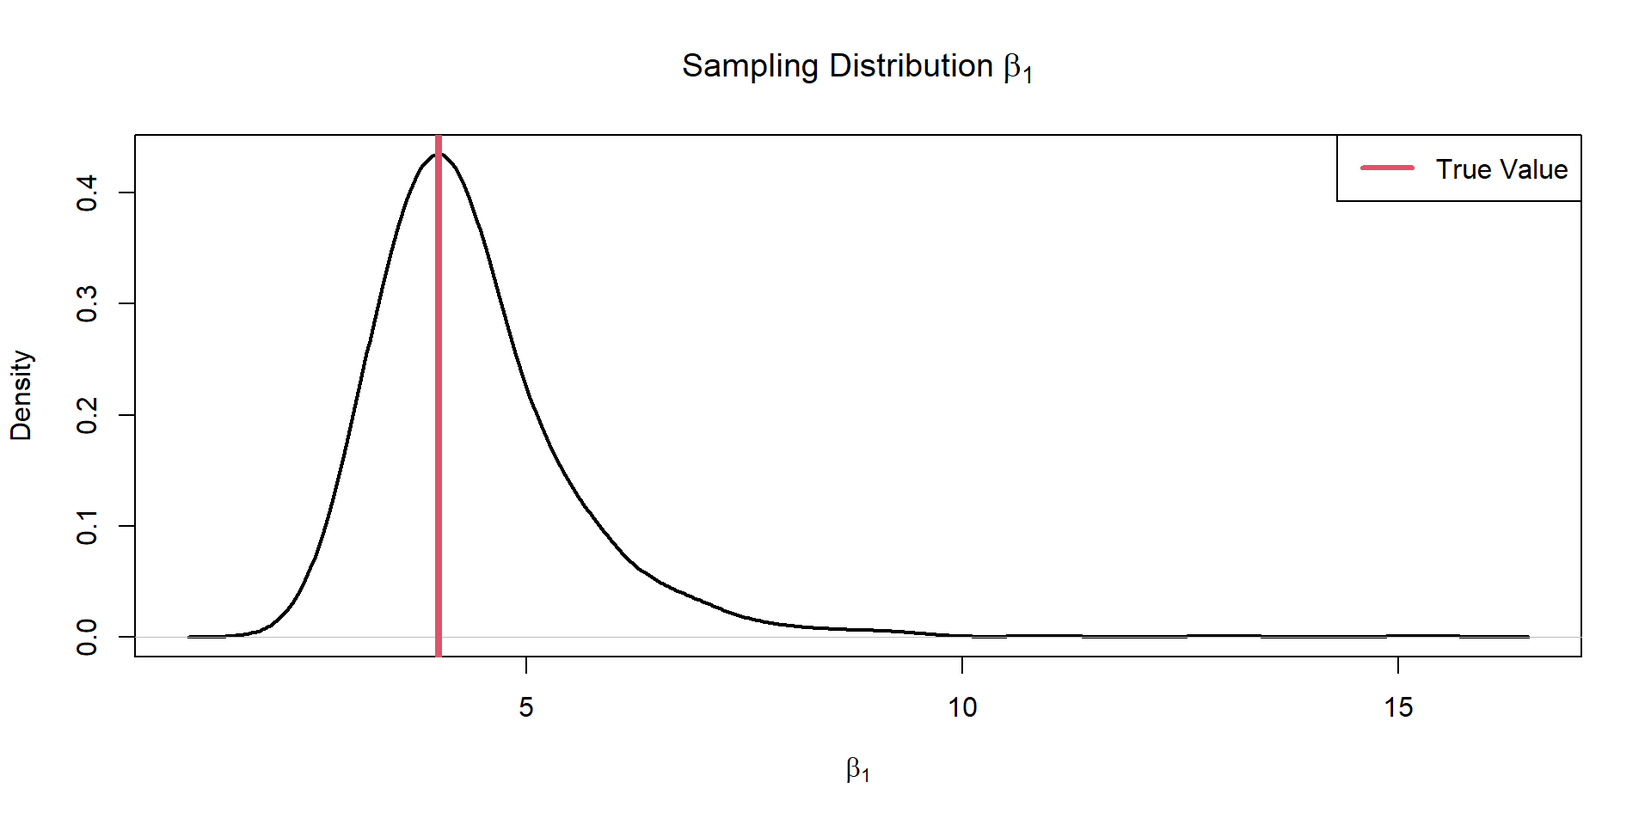
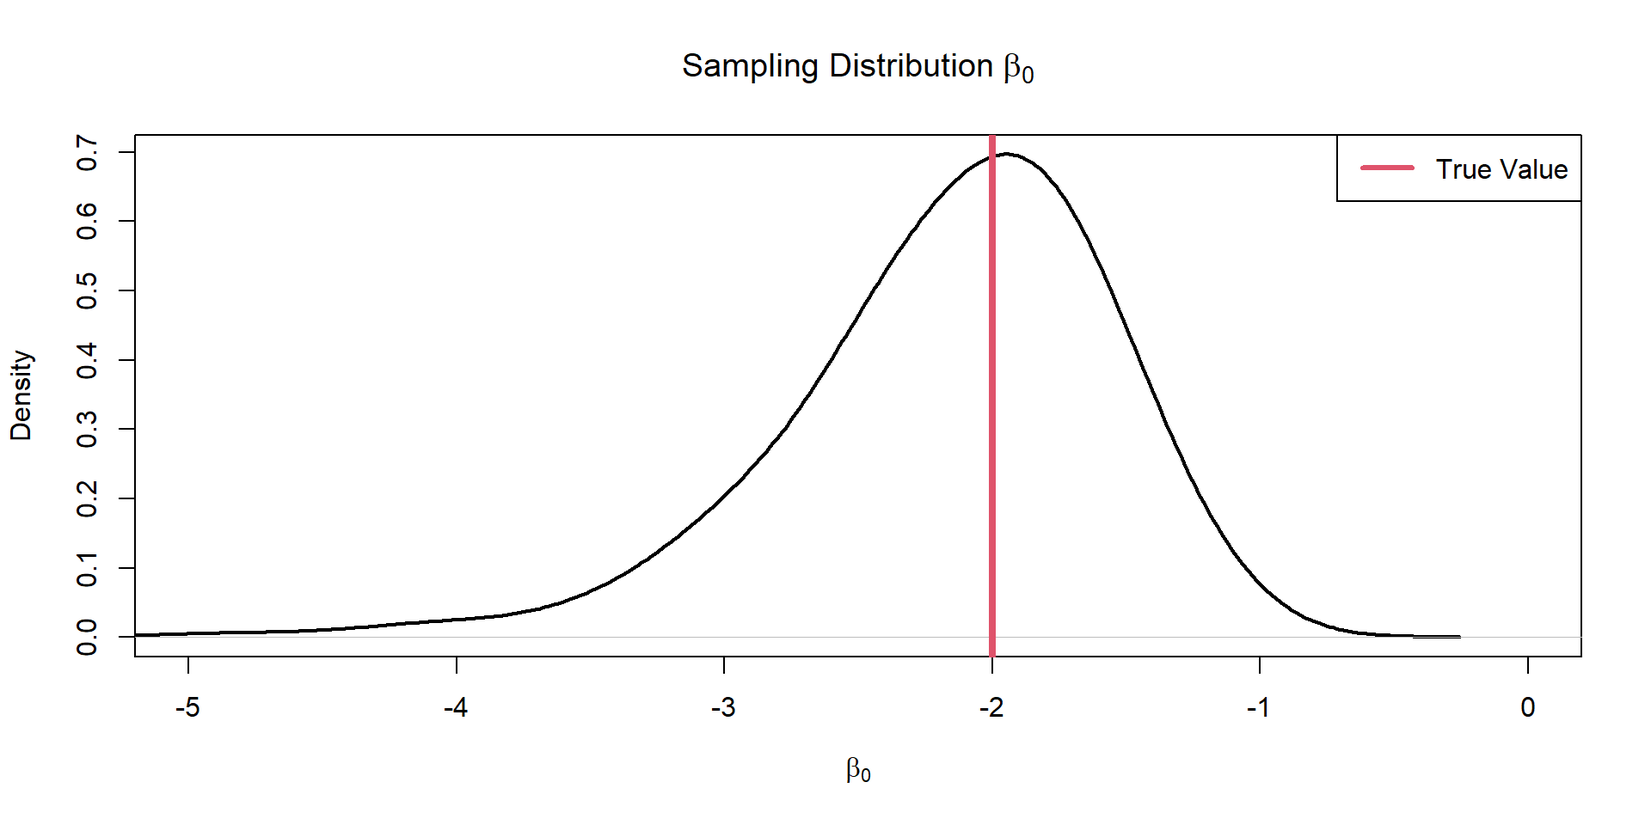
glm1

diff --git a/FW670/glm1-speaker.html b/FW670/glm1-speaker.html
@@ -7,8 +7,8 @@
 <script src="../site_libs/quarto-html/tippy.umd.min.js"></script>
 <link href="../site_libs/quarto-html/tippy.css" rel="stylesheet">
 <link href="../site_libs/quarto-html/light-border.css" rel="stylesheet">
-<link href="../site_libs/quarto-html/quarto-syntax-highlighting-7f8f88aac4f3542376d5c11b86a4c14d.css" rel="stylesheet" id="quarto-text-highlighting-styles"><meta charset="utf-8">
-  <meta name="generator" content="quarto-1.9.37">
+<link href="../site_libs/quarto-html/quarto-syntax-highlighting-15634bcf2e68342d4ad2dfa704d543f6.css" rel="stylesheet" id="quarto-text-highlighting-styles"><meta charset="utf-8">
+  <meta name="generator" content="quarto-1.9.38">
 
   <title>Brian D. Gerber – Generalized Linear Models</title>
   <meta name="apple-mobile-web-app-capable" content="yes">
@@ -295,9 +295,9 @@ Generalized linear model framework
 \]</span></p>
 <h3 id="elements-1">Elements</h3>
 <ul>
-<li class="fragment"><p>inverse-link function (<span class="math inline">\(\text{g}^{-1}(\boldsymbol{\textbf{X}\boldsymbol{\beta}})\)</span>); deterministic transformation of linear combination back to parameter scale</p></li>
-<li class="fragment"><p>design matrix of the known explanatory variables (<span class="math inline">\(\textbf{X}\)</span>)</p></li>
-<li class="fragment"><p>coefficient parameters (<span class="math inline">\(\boldsymbol{\beta}\)</span>); needs estimating</p></li>
+<li class="fragment">inverse-link function (<span class="math inline">\(\text{g}^{-1}(\boldsymbol{\textbf{X}\boldsymbol{\beta}})\)</span>); deterministic transformation of linear combination back to parameter scale</li>
+<li class="fragment">design matrix of the known explanatory variables (<span class="math inline">\(\textbf{X}\)</span>)</li>
+<li class="fragment">coefficient parameters (<span class="math inline">\(\boldsymbol{\beta}\)</span>); needs estimating</li>
 </ul>
 </section>
 <section id="linear-regression" class="slide level2 scrollable">
@@ -486,7 +486,7 @@ n &amp; x_{n,2} &amp; x_{n,3}
 <p>When can we do matrix multiplication?</p>
 <div class="fragment">
 <div class="cell">
-<div class="code-copy-outer-scaffold"><div class="sourceCode cell-code" id="cb3"><pre class="sourceCode numberSource r number-lines code-with-copy"><code class="sourceCode r"><span id="cb3-1"><a></a>first<span class="ot">=</span><span class="fu">t</span>(y)</span>
+<div class="code-copy-outer-scaffold"><div class="sourceCode cell-code" id="cb3"><pre class="sourceCode numberSource r number-lines code-with-copy"><code class="sourceCode r"><span id="cb3-1"><a></a>first <span class="ot">=</span> <span class="fu">t</span>(y)</span>
 <span id="cb3-2"><a></a><span class="fu">dim</span>(first)</span></code></pre></div><button title="Copy to Clipboard" class="code-copy-button"><i class="bi"></i></button></div>
 <div class="cell-output cell-output-stdout">
 <pre><code>[1] 1 3</code></pre>
@@ -495,7 +495,7 @@ n &amp; x_{n,2} &amp; x_{n,3}
 </div>
 <div class="fragment">
 <div class="cell">
-<div class="code-copy-outer-scaffold"><div class="sourceCode cell-code" id="cb5"><pre class="sourceCode numberSource r number-lines code-with-copy"><code class="sourceCode r"><span id="cb5-1"><a></a>second<span class="ot">=</span>y</span>
+<div class="code-copy-outer-scaffold"><div class="sourceCode cell-code" id="cb5"><pre class="sourceCode numberSource r number-lines code-with-copy"><code class="sourceCode r"><span id="cb5-1"><a></a>second <span class="ot">=</span> y</span>
 <span id="cb5-2"><a></a><span class="fu">dim</span>(second)</span></code></pre></div><button title="Copy to Clipboard" class="code-copy-button"><i class="bi"></i></button></div>
 <div class="cell-output cell-output-stdout">
 <pre><code>[1] 3 1</code></pre>
@@ -956,15 +956,15 @@ td {
 <section id="logistic-regression-simulation-1" class="slide level2 scrollable">
 <h2>Logistic Regression Simulation</h2>
 <div class="cell" data-layout-align="center">
-<div class="code-copy-outer-scaffold"><div class="sourceCode cell-code" id="cb26"><pre class="sourceCode numberSource r number-lines code-with-copy"><code class="sourceCode r"><span id="cb26-1"><a></a><span class="co"># marginal coefficients (on logit-scale)</span></span>
+<div class="code-copy-outer-scaffold"><div class="sourceCode cell-code" id="cb26"><pre class="sourceCode numberSource r number-lines code-with-copy"><code class="sourceCode r"><span id="cb26-1"><a></a><span class="co"># Marginal coefficients (on logit-scale)</span></span>
 <span id="cb26-2"><a></a>  beta <span class="ot">=</span> <span class="fu">c</span>(<span class="sc">-</span><span class="dv">2</span>,<span class="dv">4</span>)</span>
 <span id="cb26-3"><a></a></span>
-<span id="cb26-4"><a></a><span class="co">#linear terms</span></span>
+<span id="cb26-4"><a></a><span class="co"># Linear terms</span></span>
 <span id="cb26-5"><a></a>  lt <span class="ot">=</span> X<span class="sc">%*%</span>beta</span></code></pre></div><button title="Copy to Clipboard" class="code-copy-button"><i class="bi"></i></button></div>
 </div>
 <div class="fragment">
 <div class="cell" data-layout-align="center">
-<div class="code-copy-outer-scaffold"><div class="sourceCode cell-code" id="cb27"><pre class="sourceCode numberSource r number-lines code-with-copy"><code class="sourceCode r"><span id="cb27-1"><a></a><span class="co"># transformation via link function to probability scale</span></span>
+<div class="code-copy-outer-scaffold"><div class="sourceCode cell-code" id="cb27"><pre class="sourceCode numberSource r number-lines code-with-copy"><code class="sourceCode r"><span id="cb27-1"><a></a><span class="co"># Transformation via link function to probability scale</span></span>
 <span id="cb27-2"><a></a>  p <span class="ot">=</span> <span class="fu">plogis</span>(lt)</span>
 <span id="cb27-3"><a></a>  <span class="fu">head</span>(<span class="fu">round</span>(p,<span class="at">digits=</span><span class="dv">2</span>))</span></code></pre></div><button title="Copy to Clipboard" class="code-copy-button"><i class="bi"></i></button></div>
 <div class="cell-output cell-output-stdout">
@@ -980,7 +980,7 @@ td {
 </div>
 <div class="fragment">
 <div class="cell" data-layout-align="center">
-<div class="code-copy-outer-scaffold"><div class="sourceCode cell-code" id="cb29"><pre class="sourceCode numberSource r number-lines code-with-copy"><code class="sourceCode r"><span id="cb29-1"><a></a><span class="co"># generate a sample dataset</span></span>
+<div class="code-copy-outer-scaffold"><div class="sourceCode cell-code" id="cb29"><pre class="sourceCode numberSource r number-lines code-with-copy"><code class="sourceCode r"><span id="cb29-1"><a></a><span class="co"># Generate a sample dataset</span></span>
 <span id="cb29-2"><a></a>  <span class="fu">set.seed</span>(<span class="dv">14353</span>)</span>
 <span id="cb29-3"><a></a>  y <span class="ot">=</span> <span class="fu">rbinom</span>(<span class="at">n=</span><span class="fu">length</span>(p),<span class="at">size=</span><span class="dv">1</span>,p)</span>
 <span id="cb29-4"><a></a>  y</span></code></pre></div><button title="Copy to Clipboard" class="code-copy-button"><i class="bi"></i></button></div>
@@ -995,7 +995,7 @@ td {
 <section id="logistic-regression-simulation-2" class="slide level2 scrollable">
 <h2>Logistic Regression Simulation</h2>
 <div class="cell" data-layout-align="center">
-<div class="code-copy-outer-scaffold"><div class="sourceCode cell-code" id="cb31"><pre class="sourceCode numberSource r number-lines code-with-copy"><code class="sourceCode r"><span id="cb31-1"><a></a><span class="co">#Plot the linear 'terms'  and explantory variable</span></span>
+<div class="code-copy-outer-scaffold"><div class="sourceCode cell-code" id="cb31"><pre class="sourceCode numberSource r number-lines code-with-copy"><code class="sourceCode r"><span id="cb31-1"><a></a><span class="co"># Plot the linear 'terms'  and explantory variable</span></span>
 <span id="cb31-2"><a></a>  <span class="fu">par</span>(<span class="at">cex.lab=</span><span class="fl">1.2</span>,<span class="at">cex.axis=</span><span class="fl">1.2</span>)</span>
 <span id="cb31-3"><a></a>  <span class="fu">plot</span>(Var1,lt,<span class="at">type=</span><span class="st">"b"</span>,<span class="at">lwd=</span><span class="dv">3</span>,<span class="at">col=</span><span class="dv">2</span>,</span>
 <span id="cb31-4"><a></a>       <span class="at">xlab=</span><span class="st">"x"</span>,<span class="at">ylab=</span><span class="st">"Linear Terms (logit-value)"</span>)  </span></code></pre></div><button title="Copy to Clipboard" class="code-copy-button"><i class="bi"></i></button></div>
@@ -1050,20 +1050,23 @@ Number of Fisher Scoring iterations: 7</code></pre>
 <section id="logistic-regression-evaluation" class="slide level2 scrollable">
 <h2>Logistic Regression Evaluation</h2>
 <div class="cell">
-<div class="code-copy-outer-scaffold"><div class="sourceCode cell-code" id="cb35"><pre class="sourceCode numberSource r number-lines code-with-copy"><code class="sourceCode r"><span id="cb35-1"><a></a> <span class="co">#sample many times  </span></span>
-<span id="cb35-2"><a></a>  n.sim<span class="ot">=</span><span class="dv">1000</span></span>
+<div class="code-copy-outer-scaffold"><div class="sourceCode cell-code" id="cb35"><pre class="sourceCode numberSource r number-lines code-with-copy"><code class="sourceCode r"><span id="cb35-1"><a></a> <span class="co"># Sample many times  </span></span>
+<span id="cb35-2"><a></a>  n.sim <span class="ot">=</span> <span class="dv">1000</span></span>
 <span id="cb35-3"><a></a>  y.many <span class="ot">=</span> <span class="fu">replicate</span>(n.sim,</span>
 <span id="cb35-4"><a></a>                     <span class="fu">rbinom</span>(<span class="at">n =</span> <span class="fu">length</span>(p),</span>
-<span id="cb35-5"><a></a>                            <span class="at">size=</span><span class="dv">1</span>,</span>
+<span id="cb35-5"><a></a>                            <span class="at">size =</span> <span class="dv">1</span>,</span>
 <span id="cb35-6"><a></a>                            p)</span>
 <span id="cb35-7"><a></a>                     )</span>
 <span id="cb35-8"><a></a>  <span class="fu">dim</span>(y.many)</span></code></pre></div><button title="Copy to Clipboard" class="code-copy-button"><i class="bi"></i></button></div>
 <div class="cell-output cell-output-stdout">
 <pre><code>[1]  100 1000</code></pre>
 </div>
-<div class="code-copy-outer-scaffold"><div class="sourceCode cell-code" id="cb37"><pre class="sourceCode numberSource r number-lines code-with-copy"><code class="sourceCode r"><span id="cb37-1"><a></a> <span class="co">#Estimate coefs for all 100 samples</span></span>
-<span id="cb37-2"><a></a>  coef.est<span class="ot">=</span><span class="fu">apply</span>(y.many,<span class="dv">2</span>,<span class="at">FUN=</span><span class="cf">function</span>(y){</span>
-<span id="cb37-3"><a></a>          model1<span class="ot">=</span><span class="fu">glm</span>(y <span class="sc">~</span> <span class="dv">0</span> <span class="sc">+</span> X, </span>
+</div>
+<div class="fragment">
+<div class="cell">
+<div class="code-copy-outer-scaffold"><div class="sourceCode cell-code" id="cb37"><pre class="sourceCode numberSource r number-lines code-with-copy"><code class="sourceCode r"><span id="cb37-1"><a></a> <span class="co"># Estimate coefs for all 100 samples</span></span>
+<span id="cb37-2"><a></a>  coef.est <span class="ot">=</span> <span class="fu">apply</span>(y.many,<span class="dv">2</span>,<span class="at">FUN =</span> <span class="cf">function</span>(y){</span>
+<span id="cb37-3"><a></a>          model1 <span class="ot">=</span> <span class="fu">glm</span>(y <span class="sc">~</span> <span class="dv">0</span> <span class="sc">+</span> X, </span>
 <span id="cb37-4"><a></a>                     <span class="at">family =</span> <span class="fu">binomial</span>(<span class="at">link =</span> <span class="st">"logit"</span>)</span>
 <span id="cb37-5"><a></a>                     )</span>
 <span id="cb37-6"><a></a>          </span>
@@ -1076,15 +1079,16 @@ Number of Fisher Scoring iterations: 7</code></pre>
 </div>
 </div>
 <p><br></p>
+</div>
 </section>
 <section id="plot-intercept" class="slide level2">
 <h2>Plot Intercept</h2>
 
-<img data-src="glm1_files/figure-revealjs/unnamed-chunk-22-1.png" width="960" class="r-stretch"></section>
+<img data-src="glm1_files/figure-revealjs/unnamed-chunk-23-1.png" width="960" class="r-stretch"></section>
 <section id="plot-slope" class="slide level2">
 <h2>Plot Slope</h2>
 
-<img data-src="glm1_files/figure-revealjs/unnamed-chunk-23-1.png" width="960" class="r-stretch"></section>
+<img data-src="glm1_files/figure-revealjs/unnamed-chunk-24-1.png" width="960" class="r-stretch"></section>
 <section id="evaluate-sampling-distributions" class="slide level2">
 <h2>Evaluate Sampling Distributions</h2>
 <p>Is our model biased?</p>

diff --git a/docs/FW670/glm1.html b/docs/FW670/glm1.html
@@ -7,8 +7,8 @@
 <script src="../site_libs/quarto-html/tippy.umd.min.js"></script>
 <link href="../site_libs/quarto-html/tippy.css" rel="stylesheet">
 <link href="../site_libs/quarto-html/light-border.css" rel="stylesheet">
-<link href="../site_libs/quarto-html/quarto-syntax-highlighting-7f8f88aac4f3542376d5c11b86a4c14d.css" rel="stylesheet" id="quarto-text-highlighting-styles"><meta charset="utf-8">
-  <meta name="generator" content="quarto-1.9.37">
+<link href="../site_libs/quarto-html/quarto-syntax-highlighting-15634bcf2e68342d4ad2dfa704d543f6.css" rel="stylesheet" id="quarto-text-highlighting-styles"><meta charset="utf-8">
+  <meta name="generator" content="quarto-1.9.38">
 
   <title>Brian D. Gerber – Generalized Linear Models</title>
   <meta name="apple-mobile-web-app-capable" content="yes">
@@ -295,9 +295,9 @@ Generalized linear model framework
 \]</span></p>
 <h3 id="elements-1">Elements</h3>
 <ul>
-<li class="fragment"><p>inverse-link function (<span class="math inline">\(\text{g}^{-1}(\boldsymbol{\textbf{X}\boldsymbol{\beta}})\)</span>); deterministic transformation of linear combination back to parameter scale</p></li>
-<li class="fragment"><p>design matrix of the known explanatory variables (<span class="math inline">\(\textbf{X}\)</span>)</p></li>
-<li class="fragment"><p>coefficient parameters (<span class="math inline">\(\boldsymbol{\beta}\)</span>); needs estimating</p></li>
+<li class="fragment">inverse-link function (<span class="math inline">\(\text{g}^{-1}(\boldsymbol{\textbf{X}\boldsymbol{\beta}})\)</span>); deterministic transformation of linear combination back to parameter scale</li>
+<li class="fragment">design matrix of the known explanatory variables (<span class="math inline">\(\textbf{X}\)</span>)</li>
+<li class="fragment">coefficient parameters (<span class="math inline">\(\boldsymbol{\beta}\)</span>); needs estimating</li>
 </ul>
 </section>
 <section id="linear-regression" class="slide level2 scrollable">
@@ -486,7 +486,7 @@ n &amp; x_{n,2} &amp; x_{n,3}
 <p>When can we do matrix multiplication?</p>
 <div class="fragment">
 <div class="cell">
-<div class="code-copy-outer-scaffold"><div class="sourceCode cell-code" id="cb3"><pre class="sourceCode numberSource r number-lines code-with-copy"><code class="sourceCode r"><span id="cb3-1"><a></a>first<span class="ot">=</span><span class="fu">t</span>(y)</span>
+<div class="code-copy-outer-scaffold"><div class="sourceCode cell-code" id="cb3"><pre class="sourceCode numberSource r number-lines code-with-copy"><code class="sourceCode r"><span id="cb3-1"><a></a>first <span class="ot">=</span> <span class="fu">t</span>(y)</span>
 <span id="cb3-2"><a></a><span class="fu">dim</span>(first)</span></code></pre></div><button title="Copy to Clipboard" class="code-copy-button"><i class="bi"></i></button></div>
 <div class="cell-output cell-output-stdout">
 <pre><code>[1] 1 3</code></pre>
@@ -495,7 +495,7 @@ n &amp; x_{n,2} &amp; x_{n,3}
 </div>
 <div class="fragment">
 <div class="cell">
-<div class="code-copy-outer-scaffold"><div class="sourceCode cell-code" id="cb5"><pre class="sourceCode numberSource r number-lines code-with-copy"><code class="sourceCode r"><span id="cb5-1"><a></a>second<span class="ot">=</span>y</span>
+<div class="code-copy-outer-scaffold"><div class="sourceCode cell-code" id="cb5"><pre class="sourceCode numberSource r number-lines code-with-copy"><code class="sourceCode r"><span id="cb5-1"><a></a>second <span class="ot">=</span> y</span>
 <span id="cb5-2"><a></a><span class="fu">dim</span>(second)</span></code></pre></div><button title="Copy to Clipboard" class="code-copy-button"><i class="bi"></i></button></div>
 <div class="cell-output cell-output-stdout">
 <pre><code>[1] 3 1</code></pre>
@@ -956,15 +956,15 @@ td {
 <section id="logistic-regression-simulation-1" class="slide level2 scrollable">
 <h2>Logistic Regression Simulation</h2>
 <div class="cell" data-layout-align="center">
-<div class="code-copy-outer-scaffold"><div class="sourceCode cell-code" id="cb26"><pre class="sourceCode numberSource r number-lines code-with-copy"><code class="sourceCode r"><span id="cb26-1"><a></a><span class="co"># marginal coefficients (on logit-scale)</span></span>
+<div class="code-copy-outer-scaffold"><div class="sourceCode cell-code" id="cb26"><pre class="sourceCode numberSource r number-lines code-with-copy"><code class="sourceCode r"><span id="cb26-1"><a></a><span class="co"># Marginal coefficients (on logit-scale)</span></span>
 <span id="cb26-2"><a></a>  beta <span class="ot">=</span> <span class="fu">c</span>(<span class="sc">-</span><span class="dv">2</span>,<span class="dv">4</span>)</span>
 <span id="cb26-3"><a></a></span>
-<span id="cb26-4"><a></a><span class="co">#linear terms</span></span>
+<span id="cb26-4"><a></a><span class="co"># Linear terms</span></span>
 <span id="cb26-5"><a></a>  lt <span class="ot">=</span> X<span class="sc">%*%</span>beta</span></code></pre></div><button title="Copy to Clipboard" class="code-copy-button"><i class="bi"></i></button></div>
 </div>
 <div class="fragment">
 <div class="cell" data-layout-align="center">
-<div class="code-copy-outer-scaffold"><div class="sourceCode cell-code" id="cb27"><pre class="sourceCode numberSource r number-lines code-with-copy"><code class="sourceCode r"><span id="cb27-1"><a></a><span class="co"># transformation via link function to probability scale</span></span>
+<div class="code-copy-outer-scaffold"><div class="sourceCode cell-code" id="cb27"><pre class="sourceCode numberSource r number-lines code-with-copy"><code class="sourceCode r"><span id="cb27-1"><a></a><span class="co"># Transformation via link function to probability scale</span></span>
 <span id="cb27-2"><a></a>  p <span class="ot">=</span> <span class="fu">plogis</span>(lt)</span>
 <span id="cb27-3"><a></a>  <span class="fu">head</span>(<span class="fu">round</span>(p,<span class="at">digits=</span><span class="dv">2</span>))</span></code></pre></div><button title="Copy to Clipboard" class="code-copy-button"><i class="bi"></i></button></div>
 <div class="cell-output cell-output-stdout">
@@ -980,7 +980,7 @@ td {
 </div>
 <div class="fragment">
 <div class="cell" data-layout-align="center">
-<div class="code-copy-outer-scaffold"><div class="sourceCode cell-code" id="cb29"><pre class="sourceCode numberSource r number-lines code-with-copy"><code class="sourceCode r"><span id="cb29-1"><a></a><span class="co"># generate a sample dataset</span></span>
+<div class="code-copy-outer-scaffold"><div class="sourceCode cell-code" id="cb29"><pre class="sourceCode numberSource r number-lines code-with-copy"><code class="sourceCode r"><span id="cb29-1"><a></a><span class="co"># Generate a sample dataset</span></span>
 <span id="cb29-2"><a></a>  <span class="fu">set.seed</span>(<span class="dv">14353</span>)</span>
 <span id="cb29-3"><a></a>  y <span class="ot">=</span> <span class="fu">rbinom</span>(<span class="at">n=</span><span class="fu">length</span>(p),<span class="at">size=</span><span class="dv">1</span>,p)</span>
 <span id="cb29-4"><a></a>  y</span></code></pre></div><button title="Copy to Clipboard" class="code-copy-button"><i class="bi"></i></button></div>
@@ -995,7 +995,7 @@ td {
 <section id="logistic-regression-simulation-2" class="slide level2 scrollable">
 <h2>Logistic Regression Simulation</h2>
 <div class="cell" data-layout-align="center">
-<div class="code-copy-outer-scaffold"><div class="sourceCode cell-code" id="cb31"><pre class="sourceCode numberSource r number-lines code-with-copy"><code class="sourceCode r"><span id="cb31-1"><a></a><span class="co">#Plot the linear 'terms'  and explantory variable</span></span>
+<div class="code-copy-outer-scaffold"><div class="sourceCode cell-code" id="cb31"><pre class="sourceCode numberSource r number-lines code-with-copy"><code class="sourceCode r"><span id="cb31-1"><a></a><span class="co"># Plot the linear 'terms'  and explantory variable</span></span>
 <span id="cb31-2"><a></a>  <span class="fu">par</span>(<span class="at">cex.lab=</span><span class="fl">1.2</span>,<span class="at">cex.axis=</span><span class="fl">1.2</span>)</span>
 <span id="cb31-3"><a></a>  <span class="fu">plot</span>(Var1,lt,<span class="at">type=</span><span class="st">"b"</span>,<span class="at">lwd=</span><span class="dv">3</span>,<span class="at">col=</span><span class="dv">2</span>,</span>
 <span id="cb31-4"><a></a>       <span class="at">xlab=</span><span class="st">"x"</span>,<span class="at">ylab=</span><span class="st">"Linear Terms (logit-value)"</span>)  </span></code></pre></div><button title="Copy to Clipboard" class="code-copy-button"><i class="bi"></i></button></div>
@@ -1050,20 +1050,23 @@ Number of Fisher Scoring iterations: 7</code></pre>
 <section id="logistic-regression-evaluation" class="slide level2 scrollable">
 <h2>Logistic Regression Evaluation</h2>
 <div class="cell">
-<div class="code-copy-outer-scaffold"><div class="sourceCode cell-code" id="cb35"><pre class="sourceCode numberSource r number-lines code-with-copy"><code class="sourceCode r"><span id="cb35-1"><a></a> <span class="co">#sample many times  </span></span>
-<span id="cb35-2"><a></a>  n.sim<span class="ot">=</span><span class="dv">1000</span></span>
+<div class="code-copy-outer-scaffold"><div class="sourceCode cell-code" id="cb35"><pre class="sourceCode numberSource r number-lines code-with-copy"><code class="sourceCode r"><span id="cb35-1"><a></a> <span class="co"># Sample many times  </span></span>
+<span id="cb35-2"><a></a>  n.sim <span class="ot">=</span> <span class="dv">1000</span></span>
 <span id="cb35-3"><a></a>  y.many <span class="ot">=</span> <span class="fu">replicate</span>(n.sim,</span>
 <span id="cb35-4"><a></a>                     <span class="fu">rbinom</span>(<span class="at">n =</span> <span class="fu">length</span>(p),</span>
-<span id="cb35-5"><a></a>                            <span class="at">size=</span><span class="dv">1</span>,</span>
+<span id="cb35-5"><a></a>                            <span class="at">size =</span> <span class="dv">1</span>,</span>
 <span id="cb35-6"><a></a>                            p)</span>
 <span id="cb35-7"><a></a>                     )</span>
 <span id="cb35-8"><a></a>  <span class="fu">dim</span>(y.many)</span></code></pre></div><button title="Copy to Clipboard" class="code-copy-button"><i class="bi"></i></button></div>
 <div class="cell-output cell-output-stdout">
 <pre><code>[1]  100 1000</code></pre>
 </div>
-<div class="code-copy-outer-scaffold"><div class="sourceCode cell-code" id="cb37"><pre class="sourceCode numberSource r number-lines code-with-copy"><code class="sourceCode r"><span id="cb37-1"><a></a> <span class="co">#Estimate coefs for all 100 samples</span></span>
-<span id="cb37-2"><a></a>  coef.est<span class="ot">=</span><span class="fu">apply</span>(y.many,<span class="dv">2</span>,<span class="at">FUN=</span><span class="cf">function</span>(y){</span>
-<span id="cb37-3"><a></a>          model1<span class="ot">=</span><span class="fu">glm</span>(y <span class="sc">~</span> <span class="dv">0</span> <span class="sc">+</span> X, </span>
+</div>
+<div class="fragment">
+<div class="cell">
+<div class="code-copy-outer-scaffold"><div class="sourceCode cell-code" id="cb37"><pre class="sourceCode numberSource r number-lines code-with-copy"><code class="sourceCode r"><span id="cb37-1"><a></a> <span class="co"># Estimate coefs for all 100 samples</span></span>
+<span id="cb37-2"><a></a>  coef.est <span class="ot">=</span> <span class="fu">apply</span>(y.many,<span class="dv">2</span>,<span class="at">FUN =</span> <span class="cf">function</span>(y){</span>
+<span id="cb37-3"><a></a>          model1 <span class="ot">=</span> <span class="fu">glm</span>(y <span class="sc">~</span> <span class="dv">0</span> <span class="sc">+</span> X, </span>
 <span id="cb37-4"><a></a>                     <span class="at">family =</span> <span class="fu">binomial</span>(<span class="at">link =</span> <span class="st">"logit"</span>)</span>
 <span id="cb37-5"><a></a>                     )</span>
 <span id="cb37-6"><a></a>          </span>
@@ -1076,15 +1079,16 @@ Number of Fisher Scoring iterations: 7</code></pre>
 </div>
 </div>
 <p><br></p>
+</div>
 </section>
 <section id="plot-intercept" class="slide level2">
 <h2>Plot Intercept</h2>
 
-<img data-src="glm1_files/figure-revealjs/unnamed-chunk-22-1.png" width="960" class="r-stretch"></section>
+<img data-src="glm1_files/figure-revealjs/unnamed-chunk-23-1.png" width="960" class="r-stretch"></section>
 <section id="plot-slope" class="slide level2">
 <h2>Plot Slope</h2>
 
-<img data-src="glm1_files/figure-revealjs/unnamed-chunk-23-1.png" width="960" class="r-stretch"></section>
+<img data-src="glm1_files/figure-revealjs/unnamed-chunk-24-1.png" width="960" class="r-stretch"></section>
 <section id="evaluate-sampling-distributions" class="slide level2">
 <h2>Evaluate Sampling Distributions</h2>
 <p>Is our model biased?</p>
